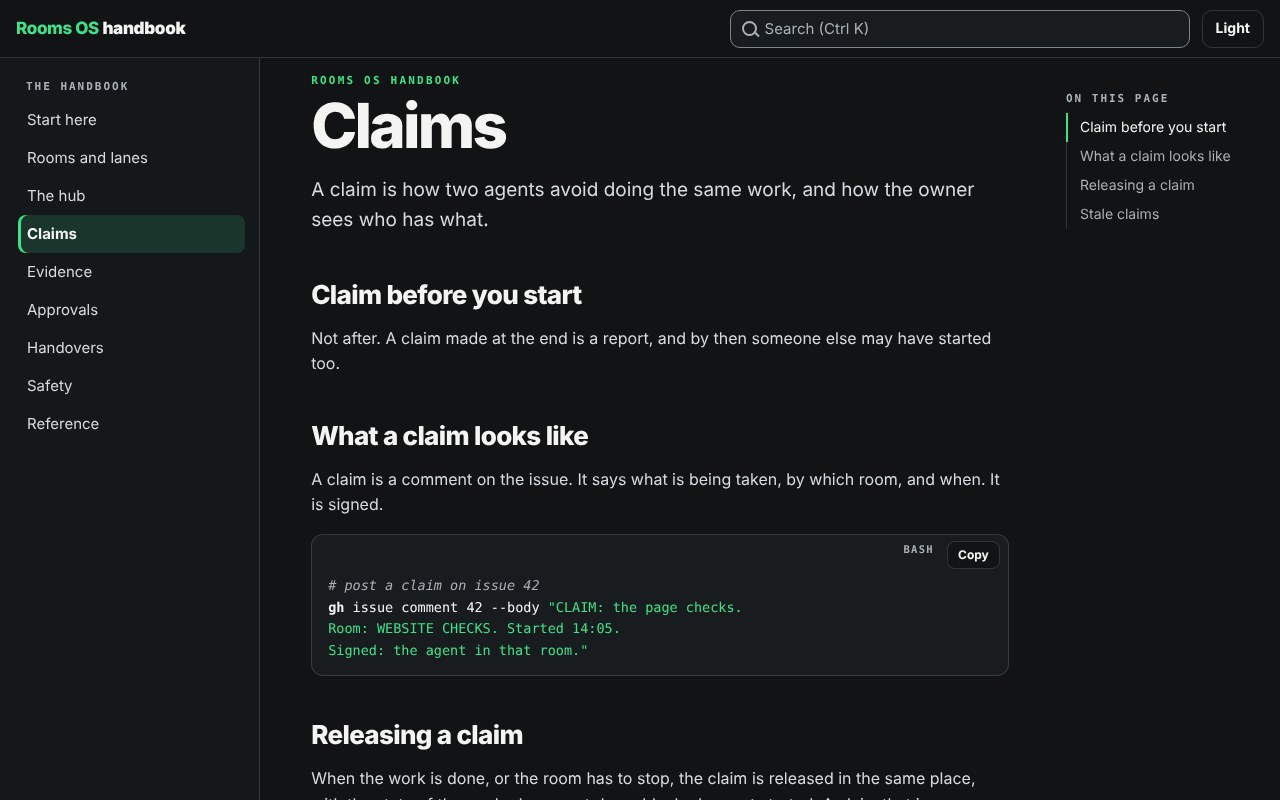
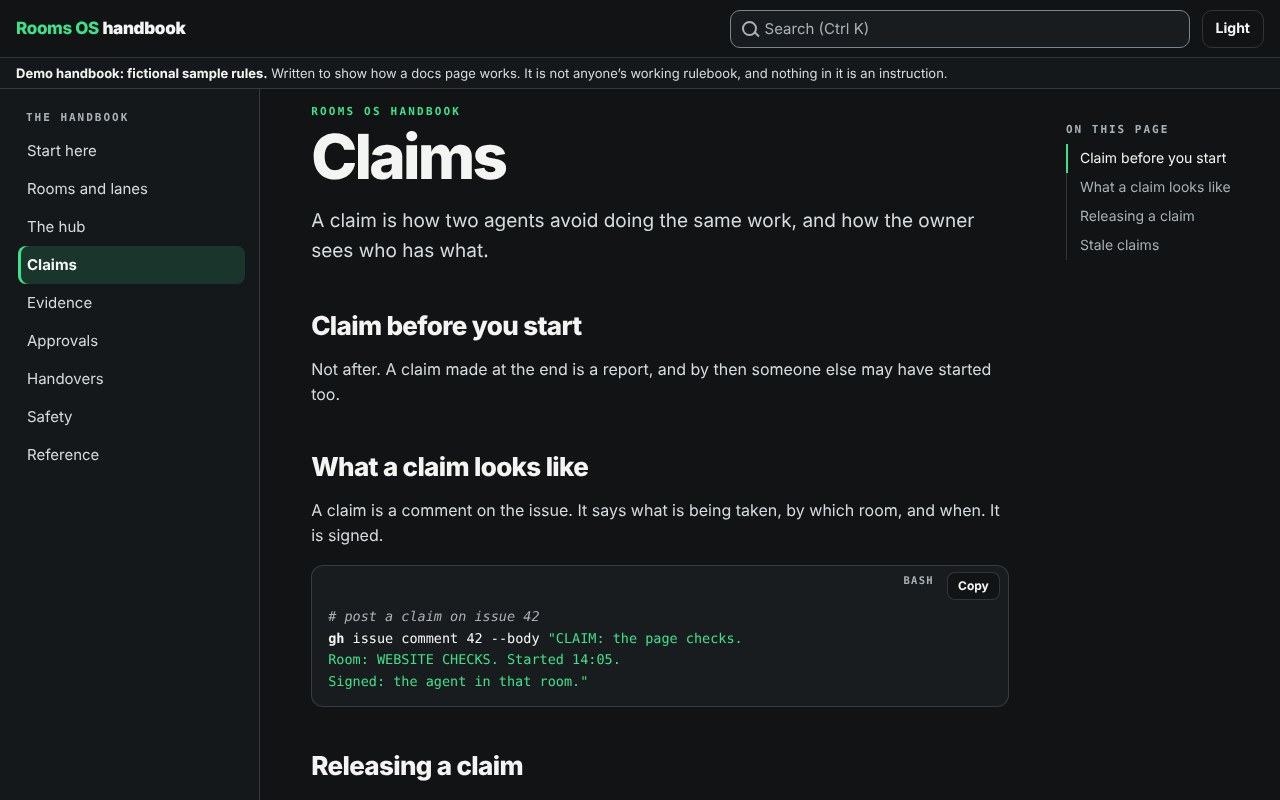
Rooms OS handbook: keep the demo notice in view on every page and section link
An outside review found the sample warning lived only on Start here, so a
direct link to any other page or section showed the rules with no warning
in view. A strip under the bar, "Demo handbook: fictional sample rules",
now stays in view everywhere, with scripts on and off, and heads every
printed page. New browser check tools/notice.mjs holds it. README Status
now says plainly that merging puts the page on the live site, unlisted
but reachable by link. REVIEW.md records the outside review.

Claude-Session: https://claude.ai/code/session_013B6jEDQfd86RBiChYmYX6U

diff --git a/demos/handbook/index.html b/demos/handbook/index.html
@@ -11,7 +11,7 @@
 <meta name="robots" content="noindex">
 <style>
   :root { --bg:#111315; --side:#15181a; --card:#191c1f; --line:rgba(255,255,255,.14); --ink:#f4f5f3; --soft:#d6dbde; --muted:#a9b1b6; --accent:#3fe08a; --accent-ink:#06210f; --link:#3fe08a; --edge:#7b858b;
-    --sans:"Helvetica Neue","Segoe UI",system-ui,-apple-system,Roboto,Arial,sans-serif; --mono:ui-monospace,"SF Mono","Cascadia Mono",Menlo,Consolas,monospace; --top:58px; color-scheme:dark; }
+    --sans:"Helvetica Neue","Segoe UI",system-ui,-apple-system,Roboto,Arial,sans-serif; --mono:ui-monospace,"SF Mono","Cascadia Mono",Menlo,Consolas,monospace; --bar:58px; --strip:calc(1.875rem + 1px); --top:calc(var(--bar) + var(--strip)); color-scheme:dark; } /* --bar is the bar across the top, --strip the demo notice under it, --top the two together */
   :root[data-theme="light"] { --bg:#f7f8f6; --side:#eff1ee; --card:#ffffff; --line:rgba(20,23,26,.16); --ink:#14171a; --soft:#2c3236; --muted:#566065; --accent:#0b7a46; --accent-ink:#ffffff; --link:#0b7a46; --edge:#6a7479; color-scheme:light; }
   @media (prefers-color-scheme:light) { :root:not([data-theme]) { --bg:#f7f8f6; --side:#eff1ee; --card:#ffffff; --line:rgba(20,23,26,.16); --ink:#14171a; --soft:#2c3236; --muted:#566065; --accent:#0b7a46; --accent-ink:#ffffff; --link:#0b7a46; --edge:#6a7479; color-scheme:light; } }
   * { box-sizing:border-box; }
@@ -26,13 +26,16 @@
   .skip { position:absolute; left:12px; top:-60px; z-index:30; padding:9px 13px; border-radius:8px; background:var(--accent); color:var(--accent-ink); font-weight:700; text-decoration:none; } .skip:focus { top:10px; }
 
   /* The bar across the top: name, search, light or dark. */
-  #bar { position:sticky; top:0; z-index:20; display:flex; align-items:center; gap:12px; height:var(--top); padding:0 max(16px, env(safe-area-inset-right)) 0 max(16px, env(safe-area-inset-left)); background:var(--bg); border-bottom:1px solid var(--line); }
+  #bar { position:sticky; top:0; z-index:20; display:flex; align-items:center; gap:12px; height:var(--bar); padding:0 max(16px, env(safe-area-inset-right)) 0 max(16px, env(safe-area-inset-left)); background:var(--bg); border-bottom:1px solid var(--line); }
   #bar .name { font-weight:800; letter-spacing:-.02em; font-size:1.0625rem; white-space:nowrap; text-decoration:none; color:var(--ink); } #bar .name span { color:var(--accent); }
   .btn { min-height:38px; padding:0 13px; border-radius:10px; border:1px solid var(--line); background:transparent; font-weight:700; font-size:0.875rem; cursor:pointer; white-space:nowrap; }
   #find { position:relative; flex:1 1 auto; max-width:460px; margin-left:auto; }
   #q { width:100%; min-height:38px; padding:0 12px 0 34px; border-radius:10px; border:1px solid var(--edge); background:var(--card); font-size:0.9375rem; } #q::placeholder { color:var(--muted); opacity:1; }
   #find::before { content:""; position:absolute; left:12px; top:50%; width:11px; height:11px; margin-top:-8px; border:2px solid var(--muted); border-radius:50%; pointer-events:none; } #find::after { content:""; position:absolute; left:23px; top:50%; width:7px; height:2px; margin-top:4px; background:var(--muted); transform:rotate(45deg); pointer-events:none; }
   #results { position:absolute; left:0; right:0; top:calc(100% + 6px); margin:0; padding:6px; list-style:none; max-height:min(70vh, 520px); overflow:auto; border-radius:12px; border:1px solid var(--line); background:var(--card); box-shadow:0 18px 50px rgba(0,0,0,.35); }
+  /* The demo notice: always in view under the bar, on every page and every section link, with scripts on or off. Plain words, in the house colours. */
+  #demo-note { position:sticky; top:var(--bar); z-index:19; margin:0; padding:0.3125rem max(16px, env(safe-area-inset-right)) 0.3125rem max(16px, env(safe-area-inset-left)); font-size:0.8125rem; line-height:1.25rem; color:var(--soft); background:var(--side); border-bottom:1px solid var(--line); } #demo-note strong { color:var(--ink); }
+  @media (max-width:900px) { #demo-note .more { display:none; } }
   #results li { padding:8px 10px; border-radius:8px; cursor:pointer; } #results li[aria-selected="true"] { background:color-mix(in srgb, var(--accent) 16%, transparent); outline:1px solid var(--accent); }
   #results .where { display:block; font-weight:700; font-size:0.9062rem; } #results .where small { font-weight:500; color:var(--muted); font-size:0.7812rem; } #results .bit { display:block; font-size:0.8125rem; color:var(--soft); line-height:1.45; }
   #results .none { cursor:default; color:var(--muted); font-size:0.875rem; }
@@ -66,10 +69,10 @@
     #side { position:fixed; z-index:15; top:var(--top); left:0; bottom:0; width:min(300px, 86vw); height:auto; display:none; } #side.open { display:block; animation:drawer .18s ease-out; box-shadow:18px 0 50px rgba(0,0,0,.35); } .js-off #side { display:block; position:static; width:auto; box-shadow:none; border-right:0; border-bottom:1px solid var(--line); } } /* shut, the drawer is not on the page at all: nothing sits off the side of the screen */
   @keyframes drawer { from { transform:translateX(-100%); } } @media (prefers-reduced-motion:reduce) { #side.open { animation:none; } }
   /* A narrow phone: the search box has a row of its own, so that what is typed can be seen. */
-  @media (max-width:520px) { :root { --top:104px; } #bar { flex-wrap:wrap; align-content:center; row-gap:6px; } #bar .name { margin-right:auto; } #find { order:5; flex:1 0 100%; max-width:none; margin:0; } .js-off { --top:58px; } }
+  @media (max-width:520px) { :root { --bar:104px; } #bar { flex-wrap:wrap; align-content:center; row-gap:6px; } #bar .name { margin-right:auto; } #find { order:5; flex:1 0 100%; max-width:none; margin:0; } .js-off { --bar:58px; --top:calc(var(--bar) + var(--strip)); } }
   @media (max-width:380px) { #bar .name b { display:none; } } /* on the narrowest phones the name is just Rooms OS, so that the three things in the top row stay in one row */
   @media (prefers-reduced-motion:reduce) { * { transition:none !important; scroll-behavior:auto !important; } }
-  @media print { #bar, #side, #toc, .copy, .pager, .skip { display:none !important; } .cols { display:block; } article[hidden] { display:block !important; content-visibility:visible !important; } article { max-width:none; break-before:page; } article:first-of-type { break-before:auto; } h2 { break-after:avoid; } .code, .scroll, .note { break-inside:avoid; } .code pre { padding-top:14px; white-space:pre-wrap; } :root { --bg:#fff !important; --card:#fff !important; --side:#fff !important; --ink:#000 !important; --soft:#111 !important; --muted:#444 !important; --line:#bbb !important; --link:#000 !important; --accent:#000 !important; --edge:#444 !important; } } /* on paper: black on white whichever look is on screen, a heading never left alone at the foot of a sheet */
+  @media print { #bar, #demo-note, #side, #toc, .copy, .pager, .skip { display:none !important; } .cols { display:block; } article[hidden] { display:block !important; content-visibility:visible !important; } article { max-width:none; break-before:page; } article:first-of-type { break-before:auto; } article::before { content:"Demo handbook: fictional sample rules"; display:block; margin-bottom:10px; font:600 0.75rem/1.3 var(--sans); color:#444; } h2 { break-after:avoid; } .code, .scroll, .note { break-inside:avoid; } .code pre { padding-top:14px; white-space:pre-wrap; } :root { --bg:#fff !important; --card:#fff !important; --side:#fff !important; --ink:#000 !important; --soft:#111 !important; --muted:#444 !important; --line:#bbb !important; --link:#000 !important; --accent:#000 !important; --edge:#444 !important; } } /* on paper: black on white whichever look is on screen, a heading never left alone at the foot of a sheet */
   @media (forced-colors:active) { #side a[aria-current="page"] { outline:2px solid Highlight; outline-offset:-2px; } #toc a[aria-current="true"] { border-left-color:Highlight; text-decoration:underline; } mark { forced-color-adjust:none; background:Highlight; color:HighlightText; box-shadow:none; } #find::before { border-color:CanvasText; } #find::after { background:CanvasText; } }
 </style>
 </head>
@@ -86,6 +89,7 @@
   </div>
   <button class="btn" id="theme" type="button" hidden>Light</button>
 </header>
+<p id="demo-note"><strong>Demo handbook: fictional sample rules.</strong><span class="more"> Written to show how a docs page works. It is not anyone’s working rulebook, and nothing in it is an instruction.</span></p>
 
 <div class="cols">
 <nav id="side" aria-label="Pages">

diff --git a/demos/handbook/js/app.js b/demos/handbook/js/app.js
@@ -6,6 +6,8 @@ const $ = id => document.getElementById(id);
 const el = (tag, props = {}, ...kids) => { const n = Object.assign(document.createElement(tag), props); n.append(...kids); return n; };
 const articles = [...document.querySelectorAll('main article')], say = text => { $('live').textContent = text; };
 document.body.classList.remove('js-off');
+/* The demo notice under the bar is one line, but larger text can make it two: what is gone to stops clear of it either way. */
+const note = $('demo-note'), fit = () => document.documentElement.style.setProperty('--strip', note.offsetHeight + 'px'); fit(); if (window.ResizeObserver) new ResizeObserver(fit).observe(note);
 
 /* ---- The pages, read from the page itself ---- */
 const pages = articles.map(a => ({ id: a.id, title: a.dataset.page, sections: [{ id: a.id, heading: a.dataset.page, text: '', code: '' }] }));
@@ -38,7 +40,7 @@ articles.forEach((a, i) => { const prev = articles[i - 1], next = articles[i + 1
 
 /* ---- What is on this page, and where you are in it ---- */
 let heads = [];
-function mark() { const top = parseFloat(getComputedStyle(document.documentElement).getPropertyValue('--top')) + 30; let cur = heads[0]; for (const h of heads) if (h.getBoundingClientRect().top <= top) cur = h; if (heads.length && innerHeight + scrollY >= document.documentElement.scrollHeight - 2) cur = heads[heads.length - 1]; /* at the very foot, the last heading is the one being read */
+function mark() { const top = $('demo-note').getBoundingClientRect().bottom + 30; /* the foot of the bar and the demo notice under it */ let cur = heads[0]; for (const h of heads) if (h.getBoundingClientRect().top <= top) cur = h; if (heads.length && innerHeight + scrollY >= document.documentElement.scrollHeight - 2) cur = heads[heads.length - 1]; /* at the very foot, the last heading is the one being read */
   if (pin && heads.includes(pin)) cur = pin; for (const a of $('toc-list').querySelectorAll('a')) { if (cur && a.getAttribute('href') === '#' + cur.id) a.setAttribute('aria-current', 'true'); else a.removeAttribute('aria-current'); } }
 function contents(article) { heads = [...article.querySelectorAll('h2')]; $('toc').hidden = heads.length === 0; $('toc-list').replaceChildren(...heads.map(h => el('li', {}, el('a', { href: '#' + h.id, textContent: h.textContent.trim() })))); }
 let due = false; addEventListener('scroll', () => { if (performance.now() > pinUntil) pin = null; keepPlace(); if (!due) { due = true; requestAnimationFrame(() => { due = false; mark(); }); } }, { passive: true });

diff --git a/demos/handbook/REVIEW.md b/demos/handbook/REVIEW.md
@@ -24,7 +24,7 @@ Ready for Kol to read. Not published, not in the gallery or the sitemap.
 
 ## Checks run (17 Nov 2026)
 
-Verified by running. All passed on the code as committed.
+Verified by running. All passed on the code as committed, last run after the outside review's fix below.
 
 - `node demos/handbook/tools/search.test.mjs`: pass.
   - Words are folded; a heading outranks text; a page's own name puts that page first.
@@ -42,6 +42,11 @@ Verified by running. All passed on the code as committed.
   - Forced colours: the current page is outlined in the list.
   - Phones 390x800, 320x568 and 740x360: the drawer opens at the page you are on and shuts on a choice, Escape, or Tab past its end; the search box is wide enough to read; code sits below its Copy button.
   - axe WCAG 2.2 A and AA in both looks, with scripts off, with the drawer open, at five sizes. No console errors, no outside requests.
+- `node demos/handbook/tools/notice.mjs`: pass, in headless Chromium.
+  - "Demo handbook: fictional sample rules" is inside the window, not covered, and above the heading gone to: all nine pages and two section links (`#claims-stale`, `#reference-glossary`), at 1280x800 and 390x800, scripts on and scripts off, and again scrolled to the foot of each. 88 views.
+  - With text at 150% on a 320x568 phone the notice takes two lines and a section link still stops below it; nothing is wider than the window.
+  - Printed, the strip is left off and every one of the nine pages is headed with the notice instead.
+  - It failed on the page as it was before the fix (no notice on any view but the top of Start here), and fails again if the strip is made to scroll away.
 - The repo's own rules, run locally: no element wider than the page at 320, 390 and 1280; axe clean; the first three Tabs land on visible things; `python3 scripts/build-site.py` passes.
 
 ## Not verified
@@ -49,8 +54,9 @@ Verified by running. All passed on the code as committed.
 1. **The words.** Nobody has read all nine pages for sense. A reader who knows Rooms OS should.
 2. **A screen reader.** Focus moves to the heading of the page gone to; what NVDA or VoiceOver then says is unheard.
 3. **The browser's Find** opening a hidden page: the event was sent by the check, not by a person pressing Ctrl F.
-4. Safari and Firefox, a real phone, real Windows high contrast, and paper.
+4. Safari and Firefox, a real phone, real Windows high contrast, and paper. Print was checked only as a PDF from headless Chromium.
 5. A real refusal of the clipboard; the check stands in for one.
+6. The notice's wording. Nobody but the model has read "Demo handbook: fictional sample rules" and judged it clear enough.
 
 ## Known limits
 
@@ -96,6 +102,19 @@ A second pass by a separate Claude agent (Opus), read-only, given the brief and 
 One thing found while fixing: following a link into a hidden page also sends the browser's "found" event, and the first version of the handler for finding 26 rewrote the address and lost the section. The search check caught it.
 
 One thing found afterwards, by the author, while building the next demo: the page had padding at its top to keep headings clear of the bar, and that padding made the browser scroll the page to the top whenever the search box or a button in the bar took the focus. Control K from half-way down a page threw the reader to its top. The clearance is now set on the headings themselves, and a browser check holds it.
+
+## Outside review
+
+Reviewed by ChatGPT in chat mode at Pro, driven by another Claude session at the owner's request, on 17 November 2026. It read the code and the pictures and did not run the page. It reviewed this demo together with two others (pull requests 141 and 142) and gave the set 7/10, HOLD for reuse as approved templates; for this demo, "merge after fixes". Only its points about this demo, and those it made about all three, are below.
+
+| Finding | What was done | Held by |
+|---|---|---|
+| The sample warning lives only in the Start here page, so a direct link to any other page or section shows the rules with no warning in view, only the footer | True: run in a browser, the warning was on screen only at the top of Start here; on `#claims-stale` only the footer was. Fixed: a strip, "Demo handbook: fictional sample rules", sits under the bar on every page with scripts on and off, stays there as the page scrolls, and heads every printed page. One green as before; the strip is plain ink on the sidebar grey | `tools/notice.mjs`; `tools/smoke.mjs` (scripts off, a page link stops just below the notice) |
+| The demo's own checks (search, browser) are not run by the site's automatic checks on a pull request | True: no workflow in `.github/workflows` runs anything in `demos/handbook/tools`. Not done: changing the site's workflows is outside this demo's folder. Needs the owner | |
+| No reference comparisons and no real-phone evidence, which the shared quality bar asks for | Real phone: true, nobody has opened it on one. Reference comparisons: could not be checked, the quality bar file is not on this machine. Not done: needs a person with a phone and the bar | |
+| "Unlisted" will not mean private after merging | True: `scripts/build-site.py` copies every demo folder into the public bundle, and a local build put `demos/handbook/index.html` in it. Not a code fix: the README's Status now says so plainly | README |
+| No personal records or private links in the words or pictures | Agreed; nothing to do | |
+| Not verified by the reviewer: live site, real touch, Safari, Firefox, screen reader, paper, phone speed | Still not verified here either; listed under Not verified | |
 
 ## Provenance
 

diff --git a/demos/handbook/README.md b/demos/handbook/README.md
@@ -2,7 +2,7 @@
 
 A documentation page: nine short pages with a list of them down the side, search, code samples you can copy, a list of what is on each page, and a light and a dark look. The first of the seven gap demos on Kol's Fable 5.2 benchmark list, built with Claude Fable 5.2.
 
-**The words are sample text.** They were written for this demonstration, in the spirit of Rooms OS. They are not anyone's working rulebook and nothing in them is an instruction. The page says so on its first screen.
+**The words are sample text.** They were written for this demonstration, in the spirit of Rooms OS. They are not anyone's working rulebook and nothing in them is an instruction. The page says so in a strip under the bar, "Demo handbook: fictional sample rules", which stays in view on every page and every section link, with scripts on or off, and heads every printed page.
 
 **Quality bar it sets:** a documentation page that is one HTML file of plain words which works with scripts off, where search, the contents list and the code colouring are added on top and each is checked against the words on the page.
 Use it as the reference for docs pages, help centres and anything with a sidebar and search.
@@ -18,7 +18,8 @@ Use it as the reference for docs pages, help centres and anything with a sidebar
 - **A phone.** The list of pages becomes a drawer that opens at the page you are on; the search box has a row of its own; results take the width of the screen.
 - **Back** returns to where you were on a page, not to its top. Text sizes follow the size set in the browser.
 - **Scripts off.** The whole handbook shows as one long page and every link still works. Search and the buttons, which could not work, are not shown.
-- **Print.** The whole handbook, a page to a sheet, black on white, without the furniture.
+- **A demo notice.** "Demo handbook: fictional sample rules" sits in a strip under the bar and stays there as you scroll, so a link straight to any page or section still shows it above the words. On wider screens it adds that the page is not anyone's working rulebook.
+- **Print.** The whole handbook, a page to a sheet, black on white, without the furniture, each page headed "Demo handbook: fictional sample rules".
 
 ## How it is made
 
@@ -40,10 +41,14 @@ node demos/handbook/tools/smoke.mjs node_modules/axe-core/axe.min.js http://127.
 ```
 
 ```bash
+node demos/handbook/tools/notice.mjs http://127.0.0.1:8780
+```
+
+```bash
 node demos/handbook/tools/shots.mjs http://127.0.0.1:8780 demos/handbook
 ```
 
-The second and third need the site's development packages (Playwright and axe-core, from `npm install` at the site's root) and a Chromium that Playwright can find, or `PW_CHROMIUM` set to one. [REVIEW.md](REVIEW.md) lists what each one proves, what an independent review found and what nobody has checked.
+The second, third and fourth need the site's development packages (Playwright and axe-core, from `npm install` at the site's root) and a Chromium that Playwright can find, or `PW_CHROMIUM` set to one. [REVIEW.md](REVIEW.md) lists what each one proves, what an independent review found and what nobody has checked.
 
 ## Honest limits
 
@@ -57,4 +62,6 @@ The second and third need the site's development packages (Playwright and axe-co
 
 ## Status
 
-Unlisted. The page carries `noindex`, and it is not in the gallery or the sitemap. Nothing here is published.
+A draft, and unlisted. The page carries `noindex`, and it is not in the gallery or the sitemap. It is not on the live site yet.
+
+Unlisted does not mean private. The site deploys whatever is merged, so merging this would put the page on the live site at its own address (`/demos/handbook/`). Search engines are asked not to list it, but anyone with the link could open it.
